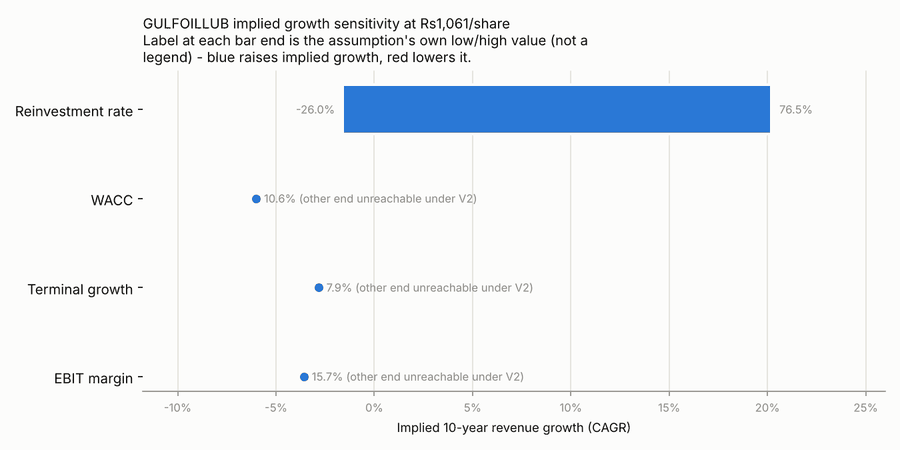
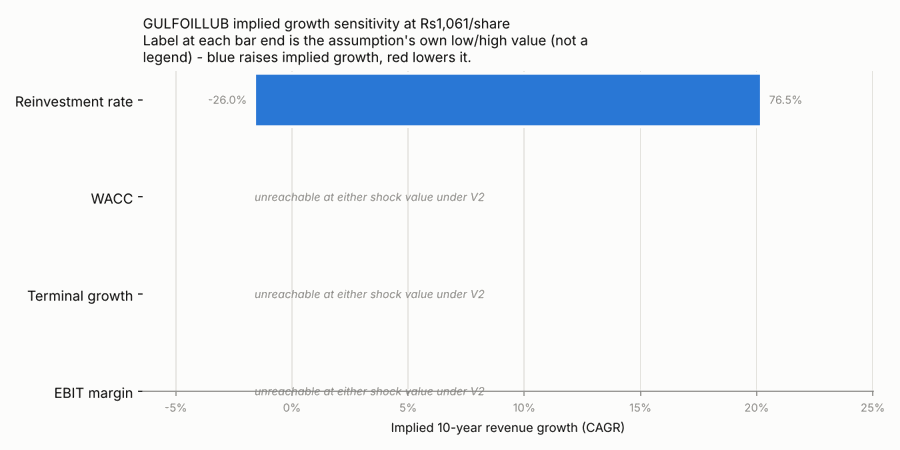
docs: update reverse-DCF card for the terminal-value fix (V6)
reverse-dcf-engine Day 18 fixed a terminal-value bug: the model's
10-year ceiling drops from Rs962 to Rs915 (worse for the bull case,
reported honestly), and the "being made consistent next" line is no
longer forward-looking -- it's done. Tornado chart regenerated against
the fixed model and re-optimized to the site's existing size budget.

Claude-Session: https://claude.ai/code/session_01SxMgaJSn2Ru6tXN5Nm7nte

diff --git a/index.html b/index.html
@@ -72,8 +72,8 @@
 
       <article class="card">
         <h3>Reverse DCF</h3>
-        <p class="stat">&#8377;962 <span>model ceiling, below the market price</span></p>
-        <p class="a">Once growth and reinvestment are tied together through return on capital, no constant growth rate reproduces the market price. The terminal-value step is being made consistent next.</p>
+        <p class="stat">&#8377;915 <span>model ceiling, below the market price</span></p>
+        <p class="a">Once growth and reinvestment are tied together through return on capital &mdash; including in the terminal year, fixed to use the same rule &mdash; no constant growth rate reproduces the market price.</p>
         <figure class="fig"><img src="assets/charts/reverse-dcf.png" width="900" height="450" loading="lazy" alt="Tornado chart of how implied 10-year growth moves when each DCF input is shocked across its historical range."></figure>
         <a class="repo" href="https://github.com/Achintya1311/reverse-dcf-engine">reverse-dcf-engine &rarr;</a>
       </article>
